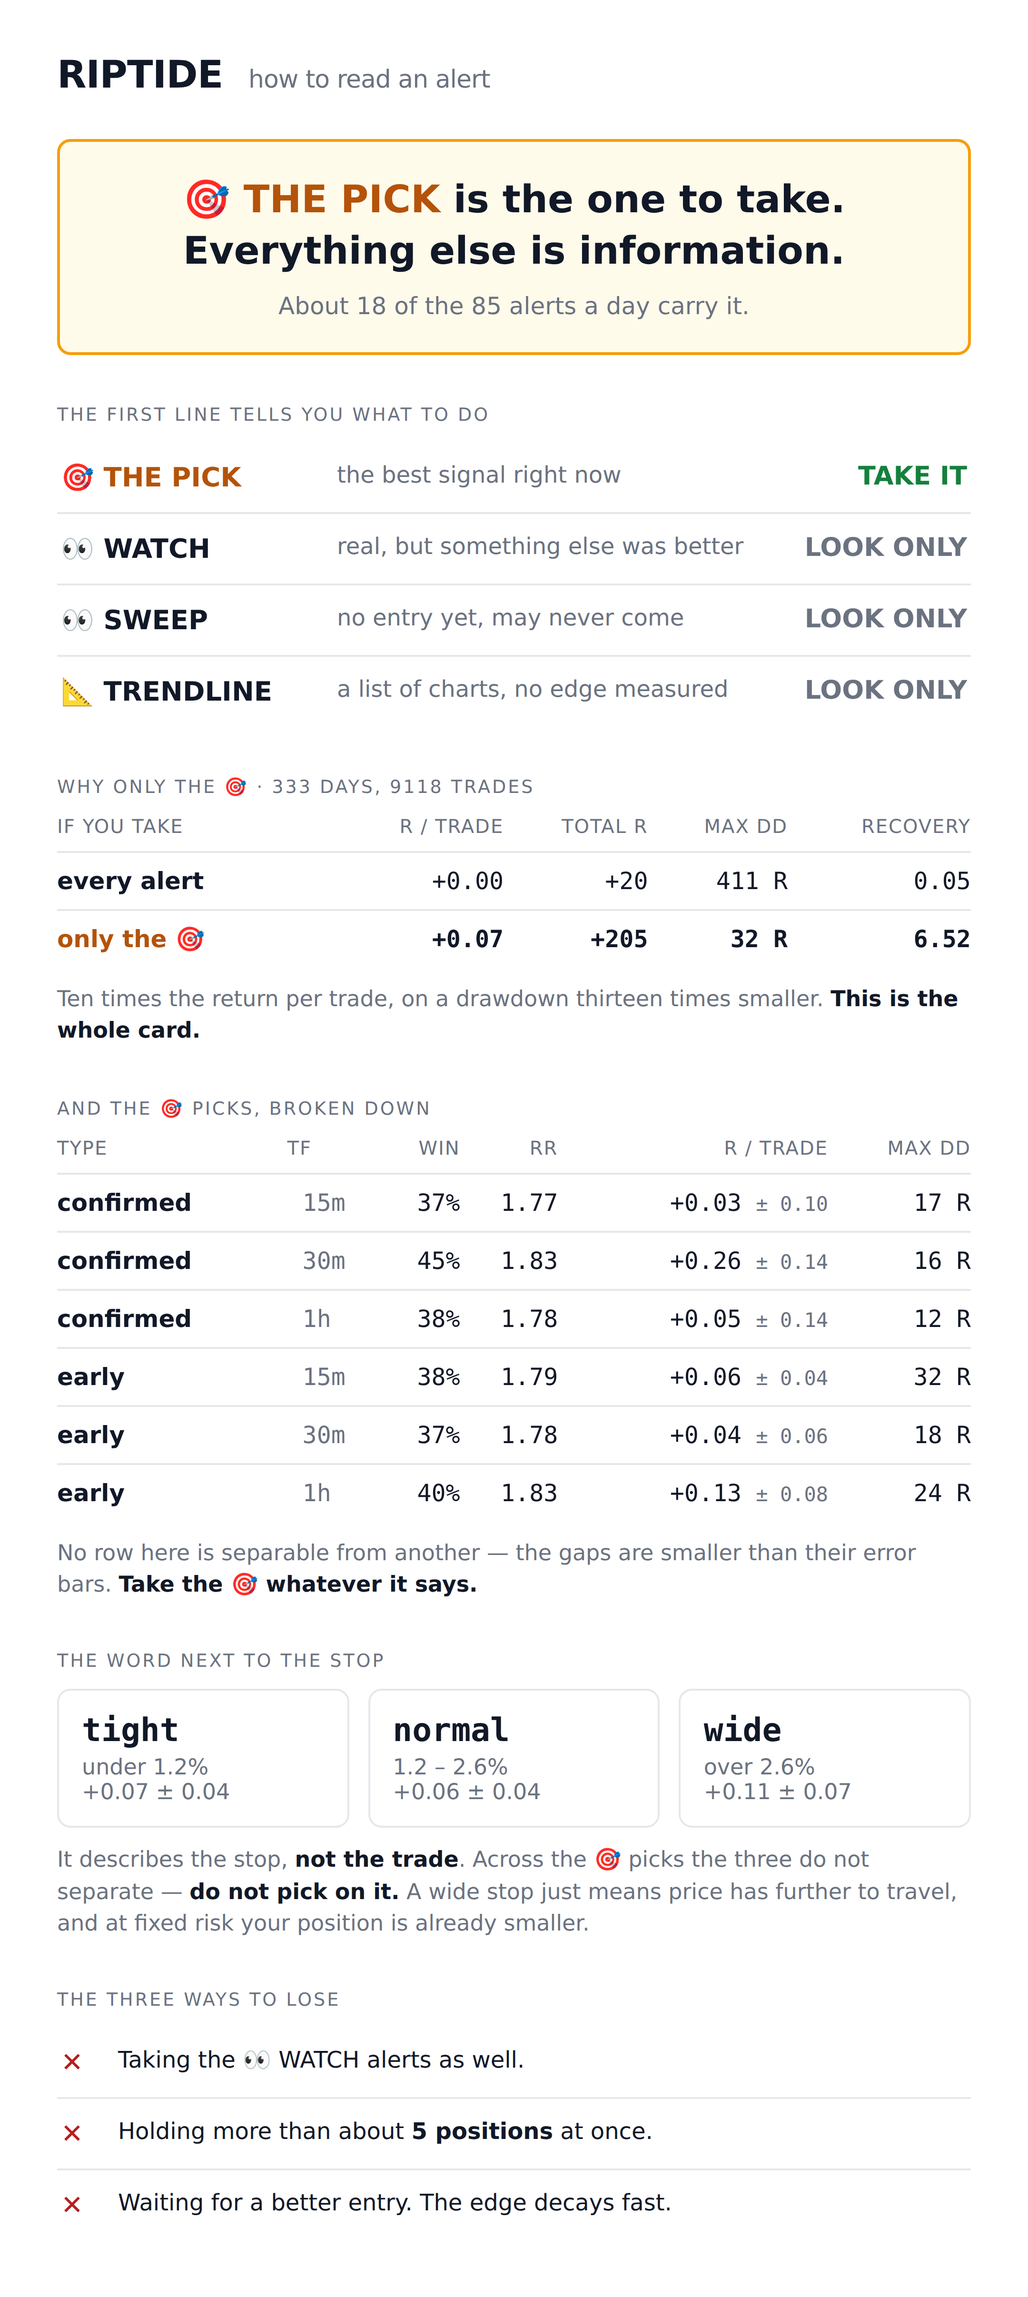
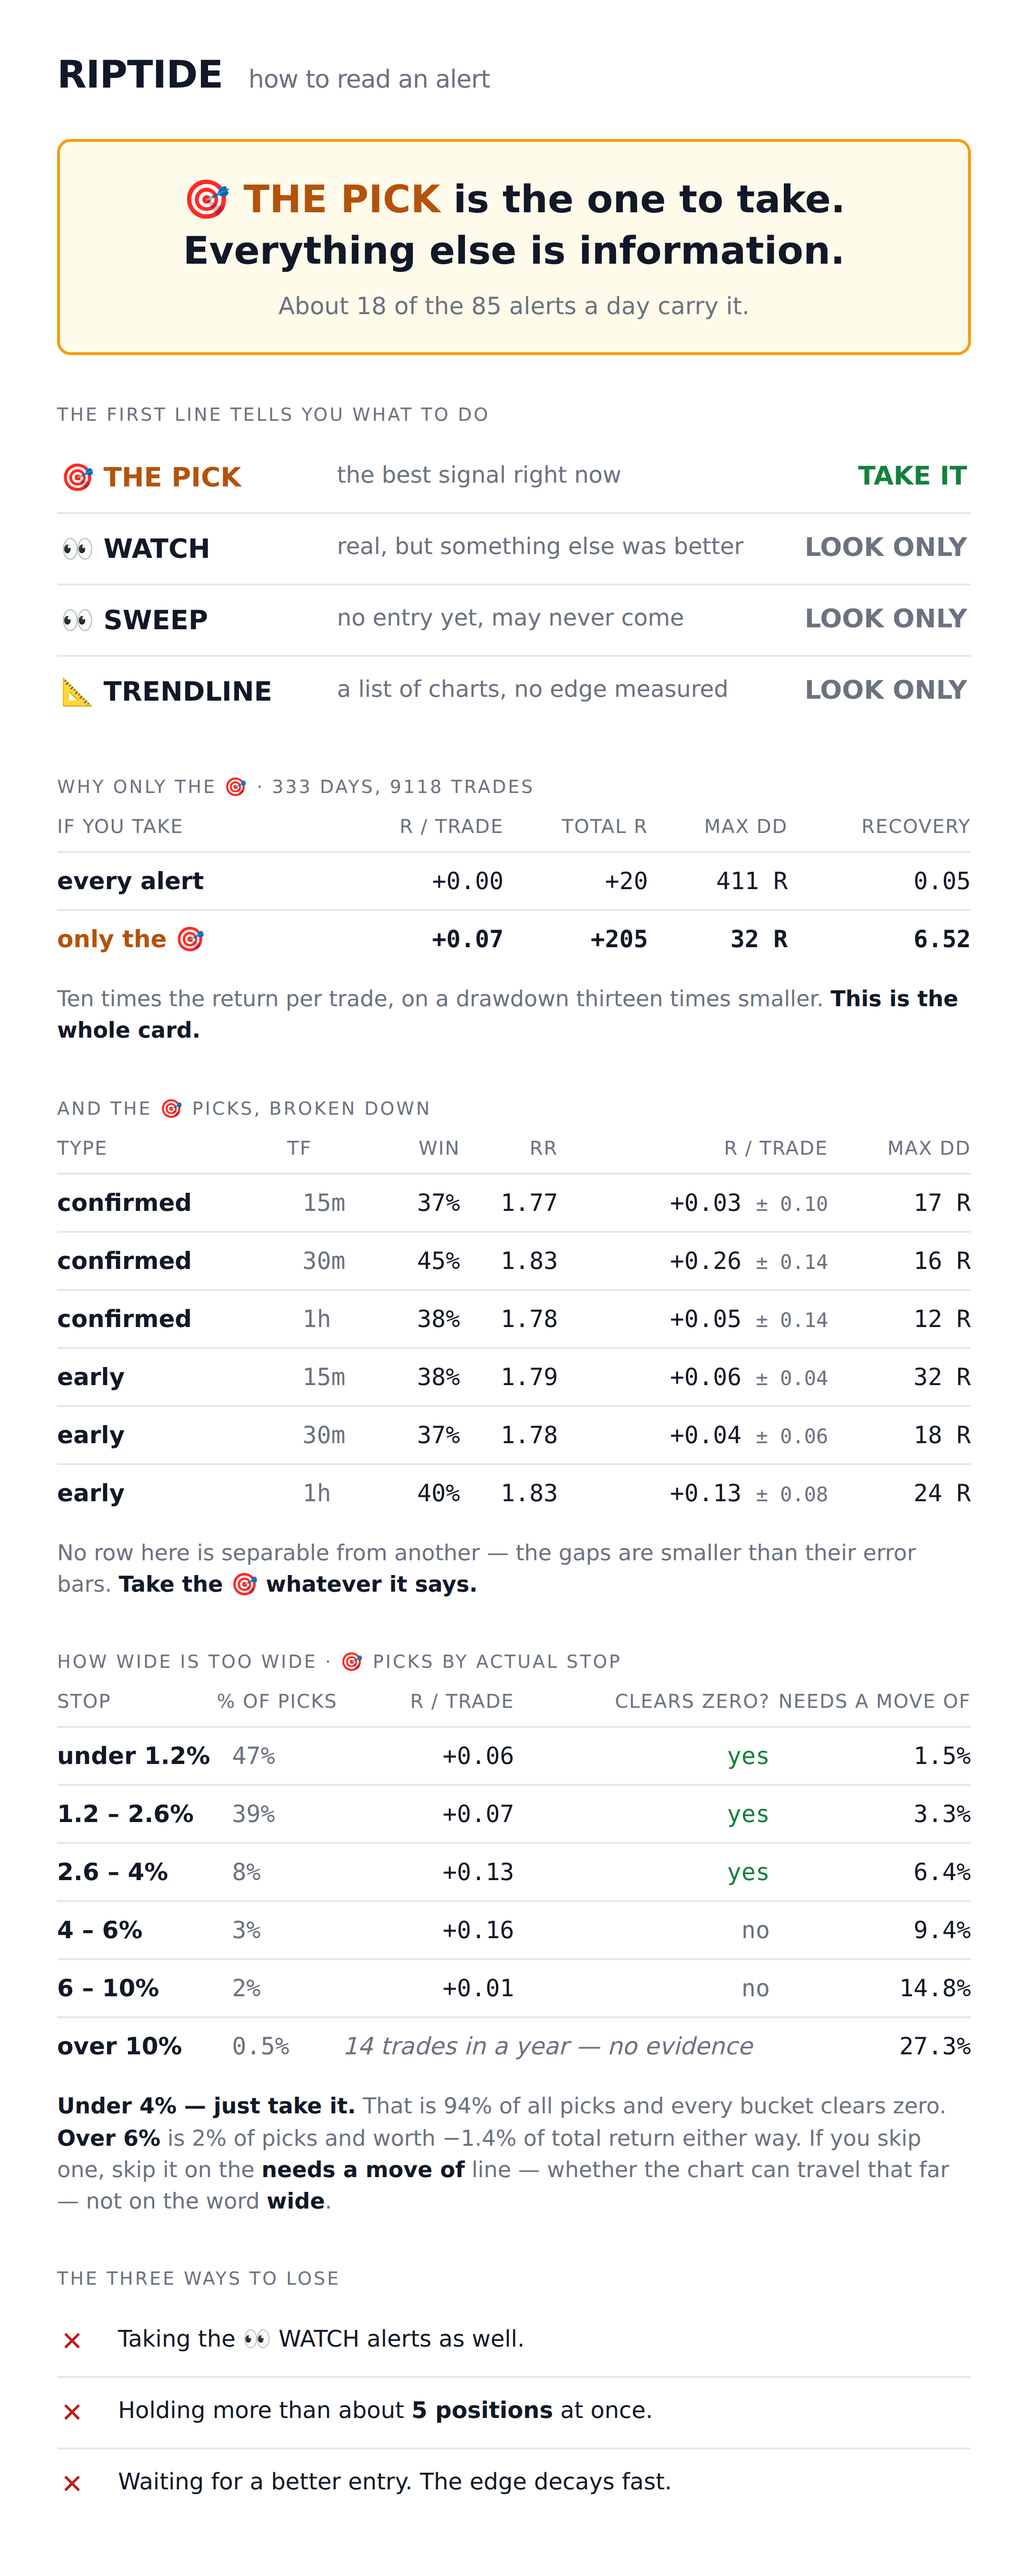
Put the stop-width tail on the card, keyed on the move it needs
The card's three tight/normal/wide chips were true and useless. "Wide" is
everything over 2.6%, and a bucket's average cannot speak for its tail — a
10.51% stop arrived as a 🎯 asking for a 21% move and the chip called it the
same thing it calls a 2.7% stop.

research/studies/pick_width.py splits the picks by what the stop actually is.
Median pick stop is 1.25%, 90th percentile 3.16%, 99th 7.94%, max 31.61%:

    under 1.2%   47.0%   +0.060   boot [+0.006, +0.113]   needs  1.5%
    1.2-2.6%     39.4%   +0.071   boot [+0.012, +0.129]   needs  3.3%
    2.6-4%        7.9%   +0.126   boot [+0.011, +0.243]   needs  6.4%
    4-6%          3.5%   +0.156   boot [-0.007, +0.308]   needs  9.4%
    6-10%         1.8%   +0.014   boot [-0.290, +0.218]   needs 14.8%
    10%+          0.5%   -0.260   14 trades, too thin     needs 27.3%

Three findings the chips hid. Everything to 4% clears zero on the symbol
bootstrap and that is 94% of picks, so the honest instruction there is "just
take it" — not "do not pick on it", which reads like a warning. The 2.6-4%
bucket is the BEST of the three, not the worst. And the tail the reader
actually worries about is 2% of picks worth -1.4% of total return either way,
so the question is nearly moot and the card now says so rather than leaving
it to feel important.

The column that decides it is `needs a move of`, because it is the one thing
about a wide stop that is not statistical: 27.3% of travel is a judgement
[…]

diff --git a/docs/alert-card.html b/docs/alert-card.html
@@ -140,24 +140,31 @@
   </div>
 
   <div class="sec">
-    <div class="sech">the word next to the stop</div>
-    <div class="chips">
-      <div class="chip">
-        <div class="w">tight</div>
-        <div class="r">under 1.2%<br>+0.07 ± 0.04</div>
-      </div>
-      <div class="chip">
-        <div class="w">normal</div>
-        <div class="r">1.2 – 2.6%<br>+0.06 ± 0.04</div>
-      </div>
-      <div class="chip">
-        <div class="w">wide</div>
-        <div class="r">over 2.6%<br>+0.11 ± 0.07</div>
-      </div>
-    </div>
-    <div class="note">It describes the stop, <b>not the trade</b>. Across the 🎯 picks the three
-      do not separate — <b>do not pick on it.</b> A wide stop just means price has further to
-      travel, and at fixed risk your position is already smaller.</div>
+    <div class="sech">how wide is too wide · 🎯 picks by actual stop</div>
+    <table class="score">
+      <tr>
+        <th class="l">stop</th><th class="l">% of picks</th>
+        <th>r / trade</th><th>clears zero?</th><th>needs a move of</th>
+      </tr>
+      <tr><td class="k">under 1.2%</td><td class="t">47%</td>
+        <td>+0.06</td><td style="color:var(--green)">yes</td><td>1.5%</td></tr>
+      <tr><td class="k">1.2 – 2.6%</td><td class="t">39%</td>
+        <td>+0.07</td><td style="color:var(--green)">yes</td><td>3.3%</td></tr>
+      <tr><td class="k">2.6 – 4%</td><td class="t">8%</td>
+        <td>+0.13</td><td style="color:var(--green)">yes</td><td>6.4%</td></tr>
+      <tr><td class="k">4 – 6%</td><td class="t">3%</td>
+        <td>+0.16</td><td style="color:var(--dim)">no</td><td>9.4%</td></tr>
+      <tr><td class="k">6 – 10%</td><td class="t">2%</td>
+        <td>+0.01</td><td style="color:var(--dim)">no</td><td>14.8%</td></tr>
+      <tr><td class="k">over 10%</td><td class="t">0.5%</td>
+        <td class="thin" colspan="2">14 trades in a year — no evidence</td>
+        <td>27.3%</td></tr>
+    </table>
+    <div class="note"><b>Under 4% — just take it.</b> That is 94% of all picks and
+      every bucket clears zero.<br>
+      <b>Over 6%</b> is 2% of picks and worth −1.4% of total return either way. If you
+      skip one, skip it on the <b>needs a move of</b> line — whether the chart can
+      travel that far — not on the word <b>wide</b>.</div>
   </div>
 
   <div class="sec" style="margin-bottom:0">

diff --git a/docs/card-template.html b/docs/card-template.html
@@ -135,24 +135,31 @@
   </div>
 
   <div class="sec">
-    <div class="sech">the word next to the stop</div>
-    <div class="chips">
-      <div class="chip">
-        <div class="w">tight</div>
-        <div class="r">under 1.2%<br>+0.07 ± 0.04</div>
-      </div>
-      <div class="chip">
-        <div class="w">normal</div>
-        <div class="r">1.2 – 2.6%<br>+0.06 ± 0.04</div>
-      </div>
-      <div class="chip">
-        <div class="w">wide</div>
-        <div class="r">over 2.6%<br>+0.11 ± 0.07</div>
-      </div>
-    </div>
-    <div class="note">It describes the stop, <b>not the trade</b>. Across the 🎯 picks the three
-      do not separate — <b>do not pick on it.</b> A wide stop just means price has further to
-      travel, and at fixed risk your position is already smaller.</div>
+    <div class="sech">how wide is too wide · 🎯 picks by actual stop</div>
+    <table class="score">
+      <tr>
+        <th class="l">stop</th><th class="l">% of picks</th>
+        <th>r / trade</th><th>clears zero?</th><th>needs a move of</th>
+      </tr>
+      <tr><td class="k">under 1.2%</td><td class="t">47%</td>
+        <td>+0.06</td><td style="color:var(--green)">yes</td><td>1.5%</td></tr>
+      <tr><td class="k">1.2 – 2.6%</td><td class="t">39%</td>
+        <td>+0.07</td><td style="color:var(--green)">yes</td><td>3.3%</td></tr>
+      <tr><td class="k">2.6 – 4%</td><td class="t">8%</td>
+        <td>+0.13</td><td style="color:var(--green)">yes</td><td>6.4%</td></tr>
+      <tr><td class="k">4 – 6%</td><td class="t">3%</td>
+        <td>+0.16</td><td style="color:var(--dim)">no</td><td>9.4%</td></tr>
+      <tr><td class="k">6 – 10%</td><td class="t">2%</td>
+        <td>+0.01</td><td style="color:var(--dim)">no</td><td>14.8%</td></tr>
+      <tr><td class="k">over 10%</td><td class="t">0.5%</td>
+        <td class="thin" colspan="2">14 trades in a year — no evidence</td>
+        <td>27.3%</td></tr>
+    </table>
+    <div class="note"><b>Under 4% — just take it.</b> That is 94% of all picks and
+      every bucket clears zero.<br>
+      <b>Over 6%</b> is 2% of picks and worth −1.4% of total return either way. If you
+      skip one, skip it on the <b>needs a move of</b> line — whether the chart can
+      travel that far — not on the word <b>wide</b>.</div>
   </div>
 
   <div class="sec" style="margin-bottom:0">

diff --git a/research/studies/pick_width.py b/research/studies/pick_width.py
@@ -1,0 +1,65 @@
+"""POST-HOC: what do the picks look like by how wide the stop actually is?
+
+Not pre-registered. Answers one practical question — a 10.51% stop arrived as
+a 🎯 and the measured 'wide' bucket is everything over 2.6%, which may be
+nothing like 10%. A bucket's average cannot speak for its tail.
+"""
+import research.env  # noqa: F401
+import asyncio, statistics                               # noqa: E402
+import aiohttp                                           # noqa: E402
+from riptide.config import BAR_SECONDS                   # noqa: E402
+from research.deep import load_universe                  # noqa: E402
+from research.studies.poi_tf import DAY, DAYS, H8, collect, context, universe  # noqa: E402
+from research.studies.report import drawdown             # noqa: E402
+from research.studies.survivor import symbol_bootstrap   # noqa: E402
+from research.studies.band_key import COOLDOWN, KEYS, pick_rolling, pct  # noqa: E402
+from research.studies.pick_rule import TFS               # noqa: E402
+
+BUCKETS = [(0, 1.2, "tight   <1.2%"), (1.2, 2.6, "normal  1.2-2.6%"),
+           (2.6, 4.0, "wide    2.6-4%"), (4.0, 6.0, "wide    4-6%"),
+           (6.0, 10.0, "wide    6-10%"), (10.0, 999, "wide    10%+")]
+
+async def main():
+    by_tf = {}
+    async with aiohttp.ClientSession() as sess:
+        syms = await universe(sess)
+        zday = await context(sess, syms, DAY); z8h = await context(sess, syms, H8)
+        for tf in TFS:
+            cs = await load_universe(sess, syms, tf, DAYS,
+                min_bars=int(0.8*DAYS*86400//BAR_SECONDS[tf]))
+            by_tf[tf] = [t for t in await collect(sess, cs, zday, z8h, interval=tf)
+                         if t.filled and t.exit_t is not None]
+    rows = [t for tf in TFS for t in by_tf[tf] if t.day]
+    pick = pick_rolling(rows, KEYS["A  tf > band > confd  (shipped)"], COOLDOWN)
+    print(f"{len(pick)} picks. stop width: median {statistics.median(t.risk_pct for t in pick):.2f}%"
+          f"  90th {pct(sorted(t.risk_pct for t in pick),0.90):.2f}%"
+          f"  99th {pct(sorted(t.risk_pct for t in pick),0.99):.2f}%"
+          f"  max {max(t.risk_pct for t in pick):.2f}%")
+    print(f"\n  {'bucket':<20}{'n':>6}{'% of picks':>12}{'win':>7}{'R/trade':>10}"
+          f"{'boot 5th':>11}{'boot 95th':>11}{'needs move':>12}")
+    for lo, hi, name in BUCKETS:
+        g = [t for t in pick if lo <= t.risk_pct < hi]
+        if not g:
+            print(f"  {name:<20}{0:>6}"); continue
+        rs = [t.r for t in g]
+        m = sum(rs)/len(rs)
+        w = sum(1 for r in rs if r > 0)/len(rs)
+        med_move = 2*statistics.median(t.risk_pct for t in g)
+        if len(g) >= 40:
+            b = symbol_bootstrap(g)
+            lo5, hi95 = (pct(b,0.05), pct(b,0.95)) if b else (0,0)
+            bs = f"{lo5:>+11.3f}{hi95:>+11.3f}"
+        else:
+            bs = f"{'too thin':>22}"
+        print(f"  {name:<20}{len(g):>6}{100*len(g)/len(pick):>11.1f}%{w:>7.0%}"
+              f"{m:>+10.3f}{bs}{med_move:>11.1f}%")
+    # and the same for everything SENT, for context
+    print(f"\n  the same buckets across every alert sent ({len(rows)}):")
+    for lo, hi, name in BUCKETS:
+        g = [t for t in rows if lo <= t.risk_pct < hi]
+        if len(g) < 40:
+            print(f"  {name:<20}{len(g):>6}  too thin"); continue
+        rs = [t.r for t in g]
+        print(f"  {name:<20}{len(g):>6}{100*len(g)/len(rows):>11.1f}%"
+              f"{sum(1 for r in rs if r>0)/len(rs):>7.0%}{sum(rs)/len(rs):>+10.3f}")
+asyncio.run(main())
